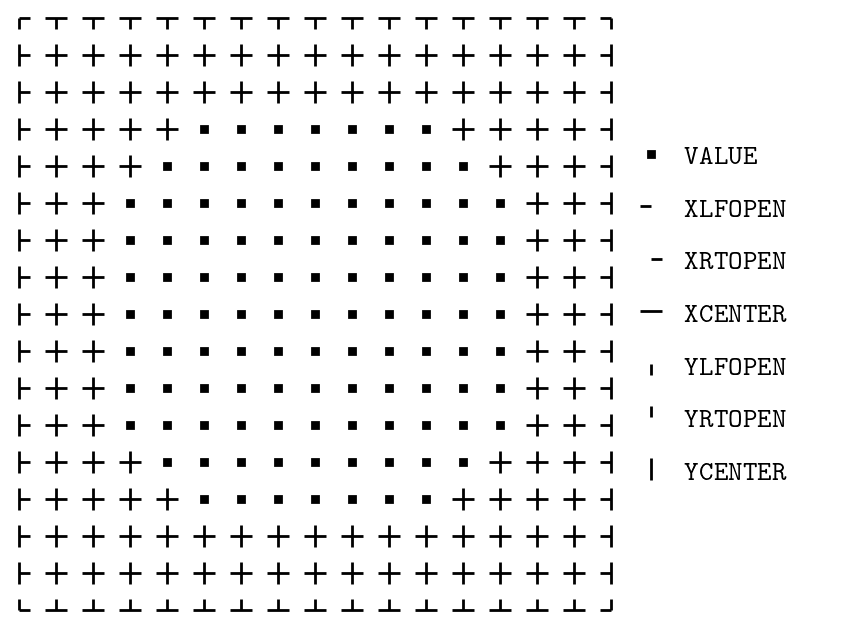
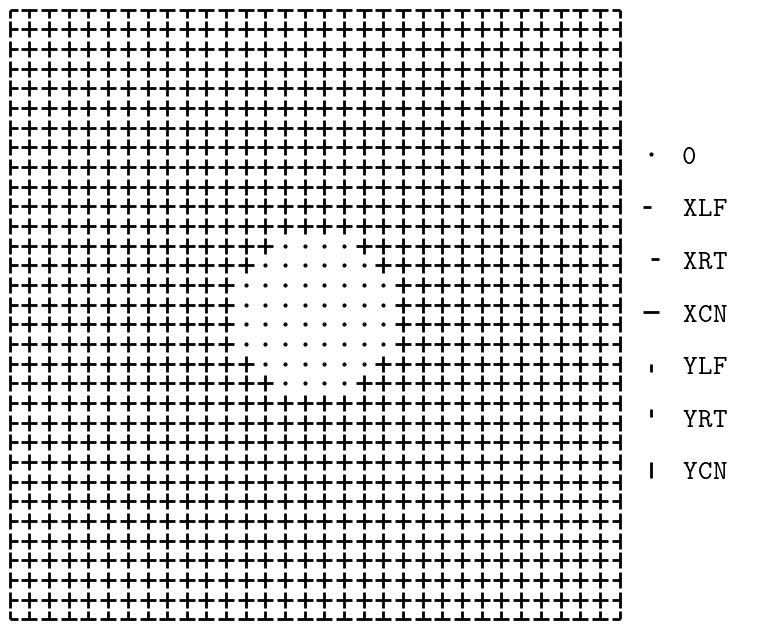
modified:   README.md 	modified:   docs/imgs/umap_example.png 	modified:   examples/test_poisson_eq.py 	modified:   src/_ltplib/grid_cfg.cxx

Changed region(s): [[0.0, 0.0, 0.9596, 0.9968]]

diff --git a/examples/test_poisson_eq.py b/examples/test_poisson_eq.py
@@ -8,9 +8,8 @@ from util.plots   import *
 from util.loggers import *
 
 def show_umap(umap):
-	U = ltp.poisson_eq.uTYPE
-	
-	fig,ax = mk_subplots([0,8,2.75],[0,8,0], dpi=200)
+
+	fig,ax = mk_subplots([0,8,1.75],[0,8,0], dpi=200)
 	
 	ax.set_xlim(-0.5, umap.shape[0]-0.5)
 	ax.set_ylim(-0.5, umap.shape[1]-0.5)
@@ -20,32 +19,32 @@ def show_umap(umap):
 	for x in range(umap.shape[0]):
 		for y in range(umap.shape[1]):
 			ucode = umap[x,y]
-			if ucode == U.VALUE:
+			if 0 == ucode:
 				vals.append((x,y))
 			else:
-				match ucode & U.XCENTER:
-					case U.XLFOPEN:
+				match ucode & 0b00_00_00_11:
+					case 0b00_00_00_01:
 						xlfs.append((x,y))
-					case U.XRTOPEN:
+					case 0b00_00_00_10:
 						xrts.append((x,y))
-					case U.XCENTER:
+					case 0b00_00_00_11:
 						xcns.append((x,y))
-				match ucode & U.YCENTER:
-					case U.YLFOPEN:
+				match ucode & 0b00_00_11_00:
+					case 0b00_00_01_00:
 						ylfs.append((x,y))
-					case U.YRTOPEN:
+					case 0b00_00_10_00:
 						yrts.append((x,y))
-					case U.YCENTER:
+					case 0b00_00_11_00:
 						ycns.append((x,y))
 	
 	############################################################
-	ax.plot(*zip(*vals), ls="", c="k", marker="s", markersize=2, label=r"{\tt VALUE}")
-	ax.plot(*zip(*xlfs), ls="", c="k", marker=0,   markersize=4, label=r"{\tt XLFOPEN}")
-	ax.plot(*zip(*xrts), ls="", c="k", marker=1,   markersize=4, label=r"{\tt XRTOPEN}")
-	ax.plot(*zip(*xcns), ls="", c="k", marker="_", markersize=8, label=r"{\tt XCENTER}")
-	ax.plot(*zip(*ylfs), ls="", c="k", marker=3,   markersize=4, label=r"{\tt YLFOPEN}")
-	ax.plot(*zip(*yrts), ls="", c="k", marker=2,   markersize=4, label=r"{\tt YRTOPEN}")
-	ax.plot(*zip(*ycns), ls="", c="k", marker="|", markersize=8, label=r"{\tt YCENTER}")
+	ax.plot(*zip(*vals), ls="", c="k", marker=".", markersize=1, label=r"{\tt 0}")
+	ax.plot(*zip(*xlfs), ls="", c="k", marker=0,   markersize=3, label=r"{\tt XLF}")
+	ax.plot(*zip(*xrts), ls="", c="k", marker=1,   markersize=3, label=r"{\tt XRT}")
+	ax.plot(*zip(*xcns), ls="", c="k", marker="_", markersize=6, label=r"{\tt XCN}")
+	ax.plot(*zip(*ylfs), ls="", c="k", marker=3,   markersize=3, label=r"{\tt YLF}")
+	ax.plot(*zip(*yrts), ls="", c="k", marker=2,   markersize=3, label=r"{\tt YRT}")
+	ax.plot(*zip(*ycns), ls="", c="k", marker="|", markersize=6, label=r"{\tt YCN}")
 	
 	legend_conf = {
 		"bbox_to_anchor":(1,0,1,1),
@@ -91,8 +90,8 @@ def main(args):
 	
 	ltp.load_backend("default")
 	
-	lx,ly = 1.5,3
-	nx,ny = 63,63
+	lx,ly = 2,2
+	nx,ny = 31,31
 	
 	noise_lvl = 0.
 	
@@ -108,10 +107,12 @@ def main(args):
 	# create array to encode finite differences:
 	_umap = np.zeros(shape, dtype=np.uint8)
 	# set central differences for x and y axes:
-	_umap[... ] =  ltp.DIFFop("XCN|YCN")
+	# ~ _umap[... ] =  ltp.DIFFop("XCN|YCN")
 	# set Dirichlet boundary for left and right edges
-	_umap[0, :] = ltp.DIFFop("VAL");
-	_umap[nx,:] = ltp.DIFFop("VAL")
+	_umap[:nx, :] |= ltp.DIFFop("XRT")
+	_umap[1:,  :] |= ltp.DIFFop("XLF")
+	_umap[:, :ny] |= ltp.DIFFop("YRT")
+	_umap[:,1:  ] |= ltp.DIFFop("YLF")
 	
 	# ~ umap[0, :]   = umap[0, :]   | U.XRTOPEN 
 	# ~ umap[nx,:]   = umap[nx,:]   | U.XLFOPEN
@@ -123,19 +124,20 @@ def main(args):
 	# ~ umap.flat[0 ] = U.VALUE
 	
 	r = 0.5**2
-	_umap[xs**2 + ys**2 < r**2] = ltp.DIFFop("VAL")
+	_umap[xs**2 + ys**2 < r**2] = 0
 	# ~ _vmap[xs**2 + ys**2 < r**2] = 0
 	
-	_vmap[_umap == ltp.DIFFop("VAL")] = 0
+	_vmap[_umap == 0] = 0
 	
 	# ~ for j, w in enumerate(w_chebyshev(umap)):
 		# ~ print(j, w)
 		# ~ if j>100:
 			# ~ exit()
 		
-	# ~ fig = show_umap(umap)
-	# ~ fig.name = "../docs/imgs/umap_example"
-	# ~ save_fig(fig, dpi=200, fmt="png")
+	fig = show_umap(_umap)
+	plt.show()
+	fig.name = "../docs/imgs/umap_example"
+	save_fig(fig, dpi=200, fmt="png")
 	# ~ exit()
 	
 	# create and fill array with charge-densities

diff --git a/README.md b/README.md
@@ -385,11 +385,12 @@ The class constructor accepts two arguments:
 
 The following properties are accessible:
 - `poisson_eq.umap` — just a read-only copy of *umap*-argument;
-- `poisson_eq.cmap` — <ins>c</ins>harge <ins>map</ins>, $q$;
-- `poisson_eq.vmap` — <ins>v</ins>oltage <ins>map</ins>, $\phi$.
+- `poisson_eq.cmap` — <ins>c</ins>harge <ins>map</ins>, $q$ (used as an input);
+- `poisson_eq.vmap` — <ins>v</ins>oltage <ins>map</ins>, $\phi$ (will be updated).
 
 Here *cmap* acts as a problem's input,
-and *vmap* should contain appropriate initial approximation for $\phi_{\rm old}$.
+and *vmap* should contain appropriate boundary values and
+initial approximation for $\phi_{\rm old}$ (could be zero).
 
 ### Iteration
 The method `poisson_eq.iter(w_relax: float) -> float` performs one SOR iteration.
